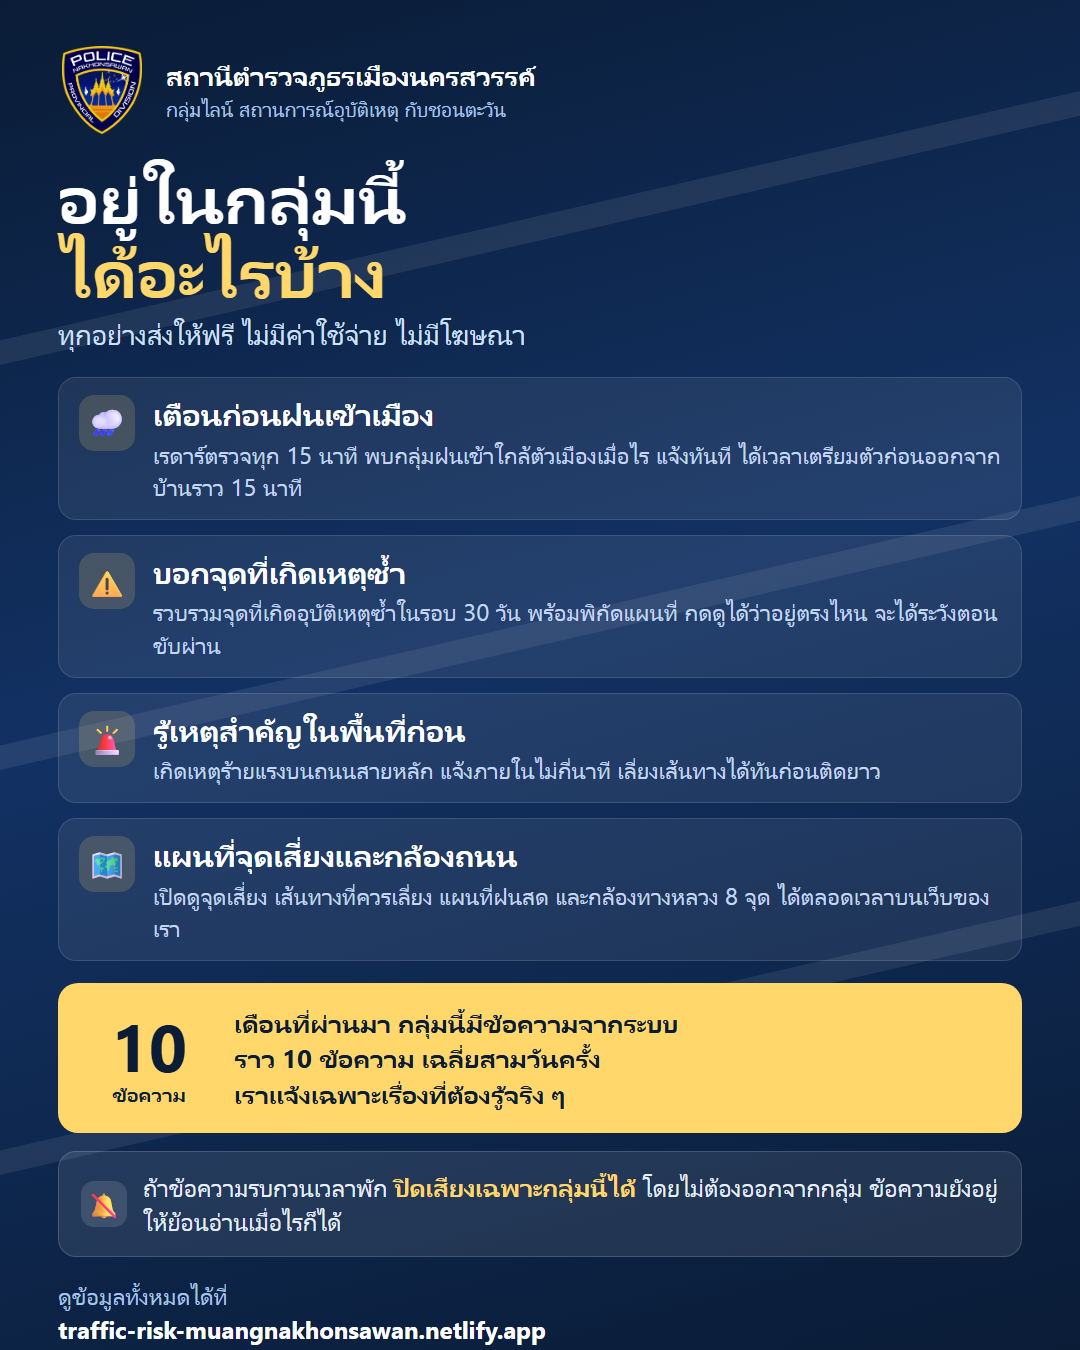
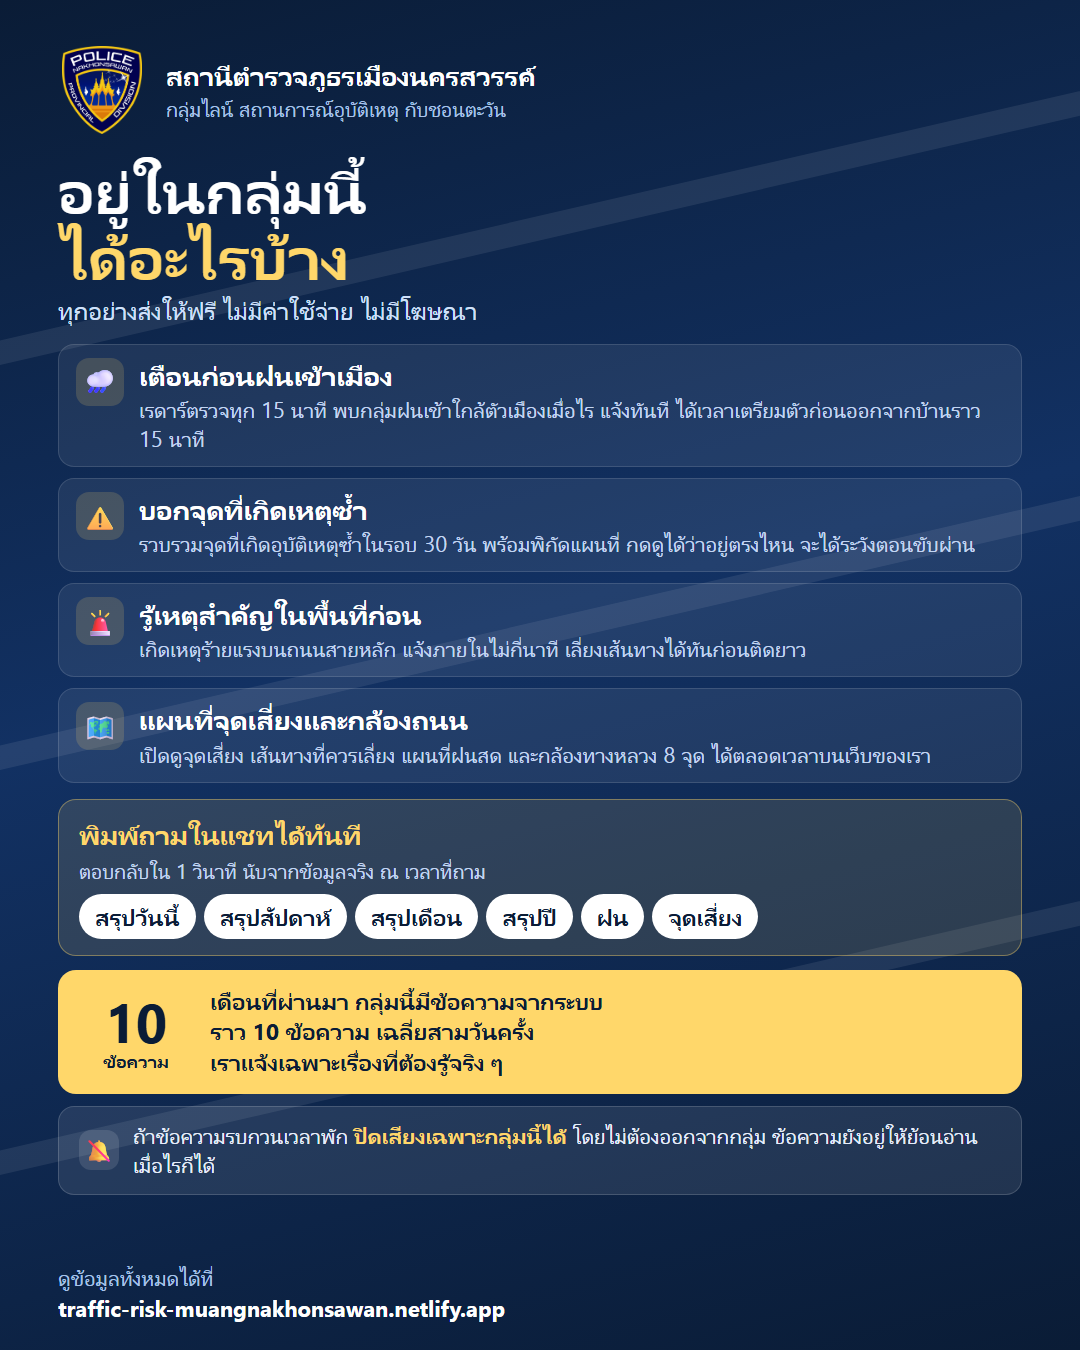
Answer citizens from the database instead of from frozen text
The keyword replies were canned messages typed into the LINE console, with
the numbers baked in and an expiry date attached. The weekly one still read
"17-23 Aug" days after that week ended, and both it and the monthly one
expire within the week — after which anyone who types the word gets
silence, which reads as a broken system and stops them asking again.

line_pub_answer counts from the accidents table at the moment the question
arrives, so the figures match the website and cannot go stale. It uses the
same line_acc_counts helper as the daily summary, because two counters
disagreeing by a few would cost more trust than either is worth.

The rain answer reads the last radar poll rather than firing a fresh one —
that call takes about five seconds and LINE will not wait. If the newest
reading is over an hour old it says so instead of reporting clear skies;
someone told there is no rain who then rides into it does not believe the
next warning either.

line_reply is patched in place rather than rewritten. It carries the helmet
campaign logic, where one mistyped line means someone does not get their
helmet, so the change reads the installed source, checks each anchor
appears exactly once, and refuses to touch anything if not. Future keywords
need only line_pub_answer.

The poster now lists the six words, with the claim that makes them worth
printing: the answer is counted when you ask.

Changed region(s): [[0.0306, 0.0933, 0.9472, 0.9956]]

diff --git a/assets/poster/stay-poster.html b/assets/poster/stay-poster.html
@@ -48,41 +48,53 @@ body {
 .top h1 { font-size:27px; font-weight:700; line-height:1.28 }
 .top span { display:block; font-size:21px; color:#a9c3e8; font-weight:400; margin-top:3px }
 
-.title { font-size:70px; font-weight:800; line-height:1.06; margin:2px 0 8px }
+.title { font-size:62px; font-weight:800; line-height:1.06; margin:0 0 6px }
 .title em { font-style:normal; color:#ffd76a }
-.sub { font-size:29px; color:#cfe0fa; line-height:1.34; margin-bottom:24px }
+.sub { font-size:26px; color:#cfe0fa; line-height:1.32; margin-bottom:16px }
 
 /* รายการสิ่งที่ได้  ไอคอนซ้าย ข้อความขวา อ่านไล่ลงได้เร็ว */
-.list { display:flex; flex-direction:column; gap:15px }
-.item { display:flex; gap:18px; align-items:flex-start;
+.list { display:flex; flex-direction:column; gap:11px }
+.item { display:flex; gap:15px; align-items:flex-start;
   background:rgba(255,255,255,.07); border:1px solid rgba(255,255,255,.13);
-  border-radius:18px; padding:17px 20px }
-.ic { flex:0 0 56px; height:56px; border-radius:15px; display:flex;
-  align-items:center; justify-content:center; font-size:30px; background:rgba(255,215,106,.17) }
-.tx b { display:block; font-size:31px; font-weight:700; line-height:1.24 }
-.tx p { font-size:24px; color:#c3d6f2; line-height:1.34; margin-top:4px }
+  border-radius:16px; padding:13px 17px }
+.ic { flex:0 0 48px; height:48px; border-radius:13px; display:flex;
+  align-items:center; justify-content:center; font-size:26px; background:rgba(255,215,106,.17) }
+.tx b { display:block; font-size:28px; font-weight:700; line-height:1.22 }
+.tx p { font-size:22px; color:#c3d6f2; line-height:1.32; margin-top:3px }
+
+/* แถบคำที่พิมพ์ถามได้
+   ข้อดีสามข้อที่คนถามถึงคือ สะดวก เร็ว แม่นยำ  แถบนี้ตอบทั้งสามข้อพร้อมกัน
+   สะดวกเพราะไม่ต้องเปิดเว็บ เร็วเพราะตอบทันที
+   แม่นยำเพราะนับจากฐานข้อมูลตอนที่ถาม ไม่ใช่ข้อความที่พิมพ์แช่ไว้ล่วงหน้า */
+.ask { margin-top:16px; background:rgba(255,215,106,.13);
+  border:1px solid rgba(255,215,106,.4); border-radius:18px; padding:16px 20px }
+.ask h3 { font-size:27px; font-weight:800; color:#ffd76a; margin-bottom:4px }
+.ask .hint { font-size:21px; color:#c3d6f2; margin-bottom:10px }
+.chips { display:flex; flex-wrap:wrap; gap:8px }
+.chip { background:#fff; color:#0a1c36; border-radius:999px;
+  padding:7px 16px; font-size:23px; font-weight:700 }
 
 /* กล่องเรื่องความถี่  ต้องเด่นกว่ารายการอื่น เพราะเป็นข้อกังวลอันดับหนึ่ง */
-.quiet { margin-top:22px; background:#ffd76a; color:#0a1c36;
-  border-radius:20px; padding:22px 26px; display:flex; gap:20px; align-items:center }
-.quiet .big { flex:0 0 130px; text-align:center; font-size:66px; font-weight:800; line-height:1 }
-.quiet .big small { display:block; font-size:20px; font-weight:700; margin-top:6px }
-.quiet p { font-size:26px; line-height:1.36; font-weight:600 }
+.quiet { margin-top:14px; background:#ffd76a; color:#0a1c36;
+  border-radius:18px; padding:16px 22px; display:flex; gap:18px; align-items:center }
+.quiet .big { flex:0 0 112px; text-align:center; font-size:54px; font-weight:800; line-height:1 }
+.quiet .big small { display:block; font-size:18px; font-weight:700; margin-top:4px }
+.quiet p { font-size:23px; line-height:1.34; font-weight:600 }
 
 /* ทางออกที่ไม่ใช่การออกจากกลุ่ม
    คนที่รำคาญเสียงแจ้งเตือนมักไม่รู้ว่าปิดเสียงเฉพาะกลุ่มได้
    เขาเลยเลือกวิธีที่รู้จักวิธีเดียวคือกดออก  บอกทางเลือกไว้จึงรักษาคนไว้ได้จริง
    และเป็นการบอกตามจริง ไม่ใช่การขอร้องให้ทน */
-.tip { margin-top:18px; background:rgba(255,255,255,.09);
-  border:1px solid rgba(255,255,255,.16); border-radius:18px;
-  padding:18px 22px; display:flex; gap:16px; align-items:center }
-.tip .ic2 { flex:0 0 46px; height:46px; border-radius:13px; display:flex;
-  align-items:center; justify-content:center; font-size:25px; background:rgba(255,255,255,.12) }
-.tip p { font-size:25px; line-height:1.36; color:#e6eefb }
+.tip { margin-top:12px; background:rgba(255,255,255,.09);
+  border:1px solid rgba(255,255,255,.16); border-radius:16px;
+  padding:14px 20px; display:flex; gap:14px; align-items:center }
+.tip .ic2 { flex:0 0 40px; height:40px; border-radius:12px; display:flex;
+  align-items:center; justify-content:center; font-size:22px; background:rgba(255,255,255,.12) }
+.tip p { font-size:22px; line-height:1.34; color:#e6eefb }
 .tip b { color:#ffd76a }
 
-.foot { margin-top:auto; padding:22px 0 30px; display:flex; align-items:center; gap:18px }
-.foot .line { flex:1; font-size:24px; color:#a9c3e8; line-height:1.4 }
+.foot { margin-top:auto; padding:16px 0 26px; display:flex; align-items:center; gap:18px }
+.foot .line { flex:1; font-size:22px; color:#a9c3e8; line-height:1.4 }
 .foot b { color:#fff }
 </style>
 </head>
@@ -135,6 +147,19 @@ body {
            และกล้องทางหลวง 8 จุด ได้ตลอดเวลาบนเว็บของเรา</p></div>
     </div>
 
+  </div>
+
+  <div class="ask">
+    <h3>พิมพ์ถามในแชทได้ทันที</h3>
+    <div class="hint">ตอบกลับใน 1 วินาที นับจากข้อมูลจริง ณ เวลาที่ถาม</div>
+    <div class="chips">
+      <span class="chip">สรุปวันนี้</span>
+      <span class="chip">สรุปสัปดาห์</span>
+      <span class="chip">สรุปเดือน</span>
+      <span class="chip">สรุปปี</span>
+      <span class="chip">ฝน</span>
+      <span class="chip">จุดเสี่ยง</span>
+    </div>
   </div>
 
   <div class="quiet">
